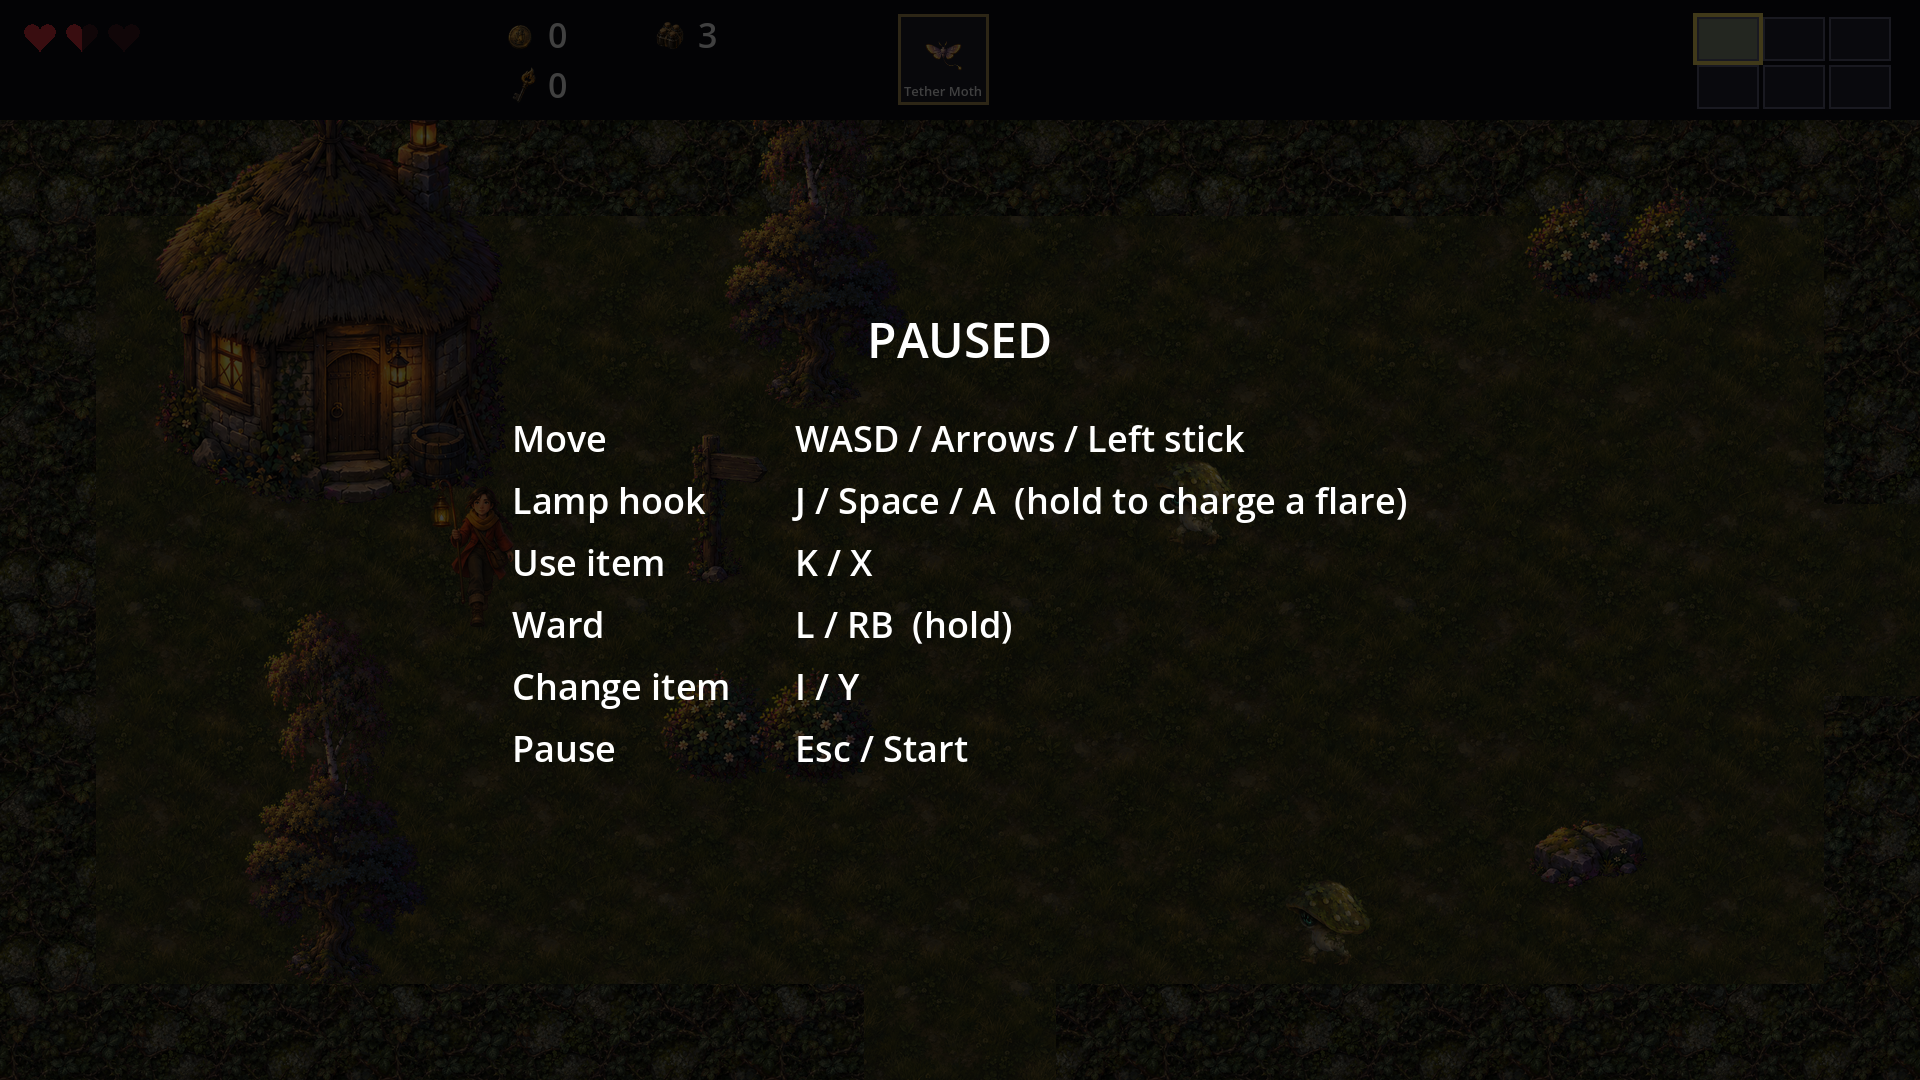
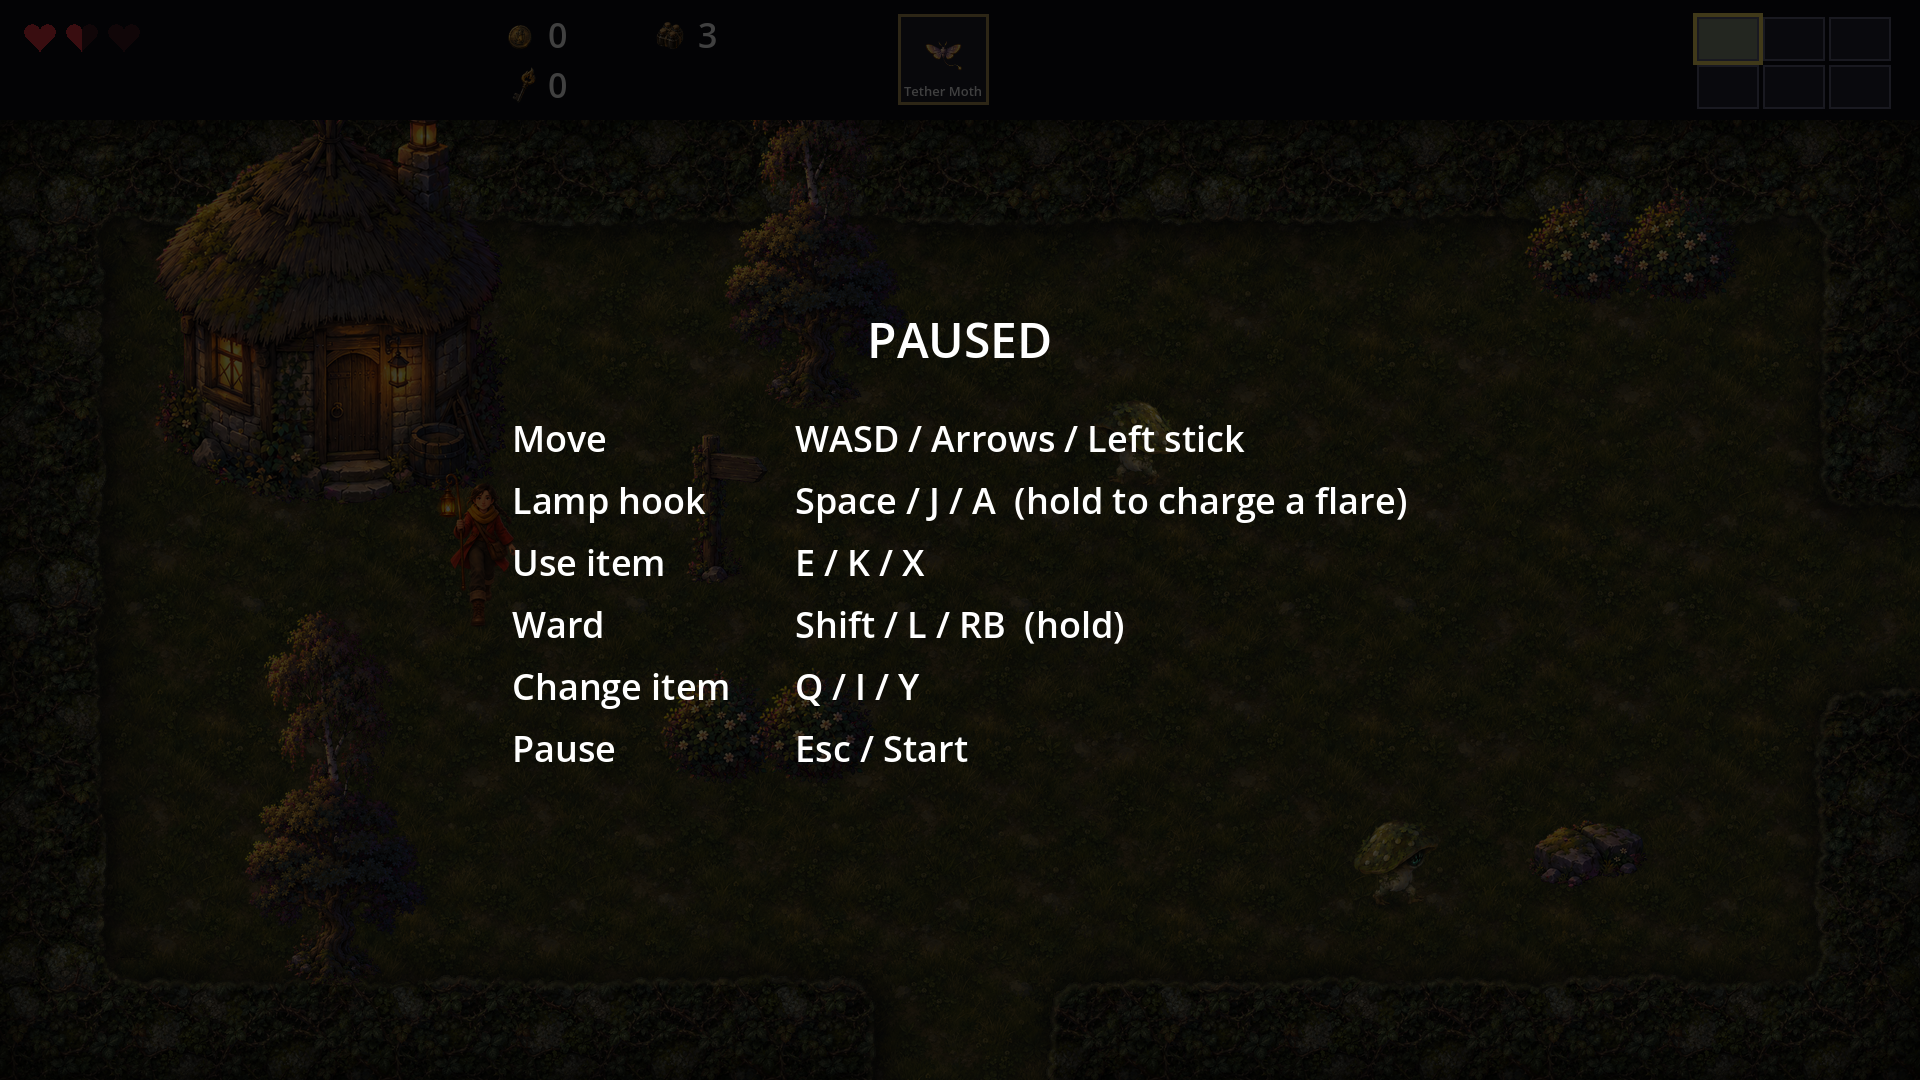
Move the primary action keys next to WASD
use_item is E, ward is Shift (held) and cycle_item is Q. The old keys
J, K, L and I and the gamepad buttons stay as alternates. The pause
menu help, the README and the bindings test follow. State notes the
walk cycle as an open art item.

diff --git a/docs/state.md b/docs/state.md
@@ -64,6 +64,10 @@ Not covered: the hook has no hit detection against rocks or walls, so there is n
 - **The hook swing width is open for tuning.** The user finds the 110° arc with 120 px reach
   (`SWING_ARC_DEG`, `SWING_REACH` in `scripts/player/player.gd`) rather wide. The numbers are unchanged; the
   swing trail draws exactly that sector so the width can be judged with the real art in play.
+- **The new walk cycle looks a little lame (haltande).** The user judged it good enough for now, in play, for Tamsin
+  and for the Hollow. Open art item: check the leg order of the four poses (stride, passing, stride, passing) and the
+  frame timing at 8 fps (`walk_*` in `tools/art_manifest.json`). Try a six-pose cycle or another fps before a new
+  Codex sheet. The art is unchanged.
 - No human visual approval yet. Judge the art in play with `make run` / `make dev`.
 - The tallow blob rests on its flattest pose, so a still blob looks low.
 - A faint olive tint remains in the explosion smoke and near Tamsin's braid tip in the charge poses

diff --git a/README.md b/README.md
@@ -27,10 +27,10 @@ make check   # import, test and gdlint
 | Action | Keyboard | Gamepad |
 |---|---|---|
 | Move | WASD / arrows | left stick / D-pad |
-| Lamp hook (hold 0.8 s to charge a flare) | J / Space | A |
-| Use item | K | X |
-| Ward (hold) | L | RB |
-| Change item | I | Y |
+| Lamp hook (hold 0.8 s to charge a flare) | Space / J | A |
+| Use item | E / K | X |
+| Ward (hold) | Shift / L | RB |
+| Change item | Q / I | Y |
 | Pause (shows this help in game) | Esc | Start |
 | Hitbox overlay (dev mode only) | F1 | - |
 
